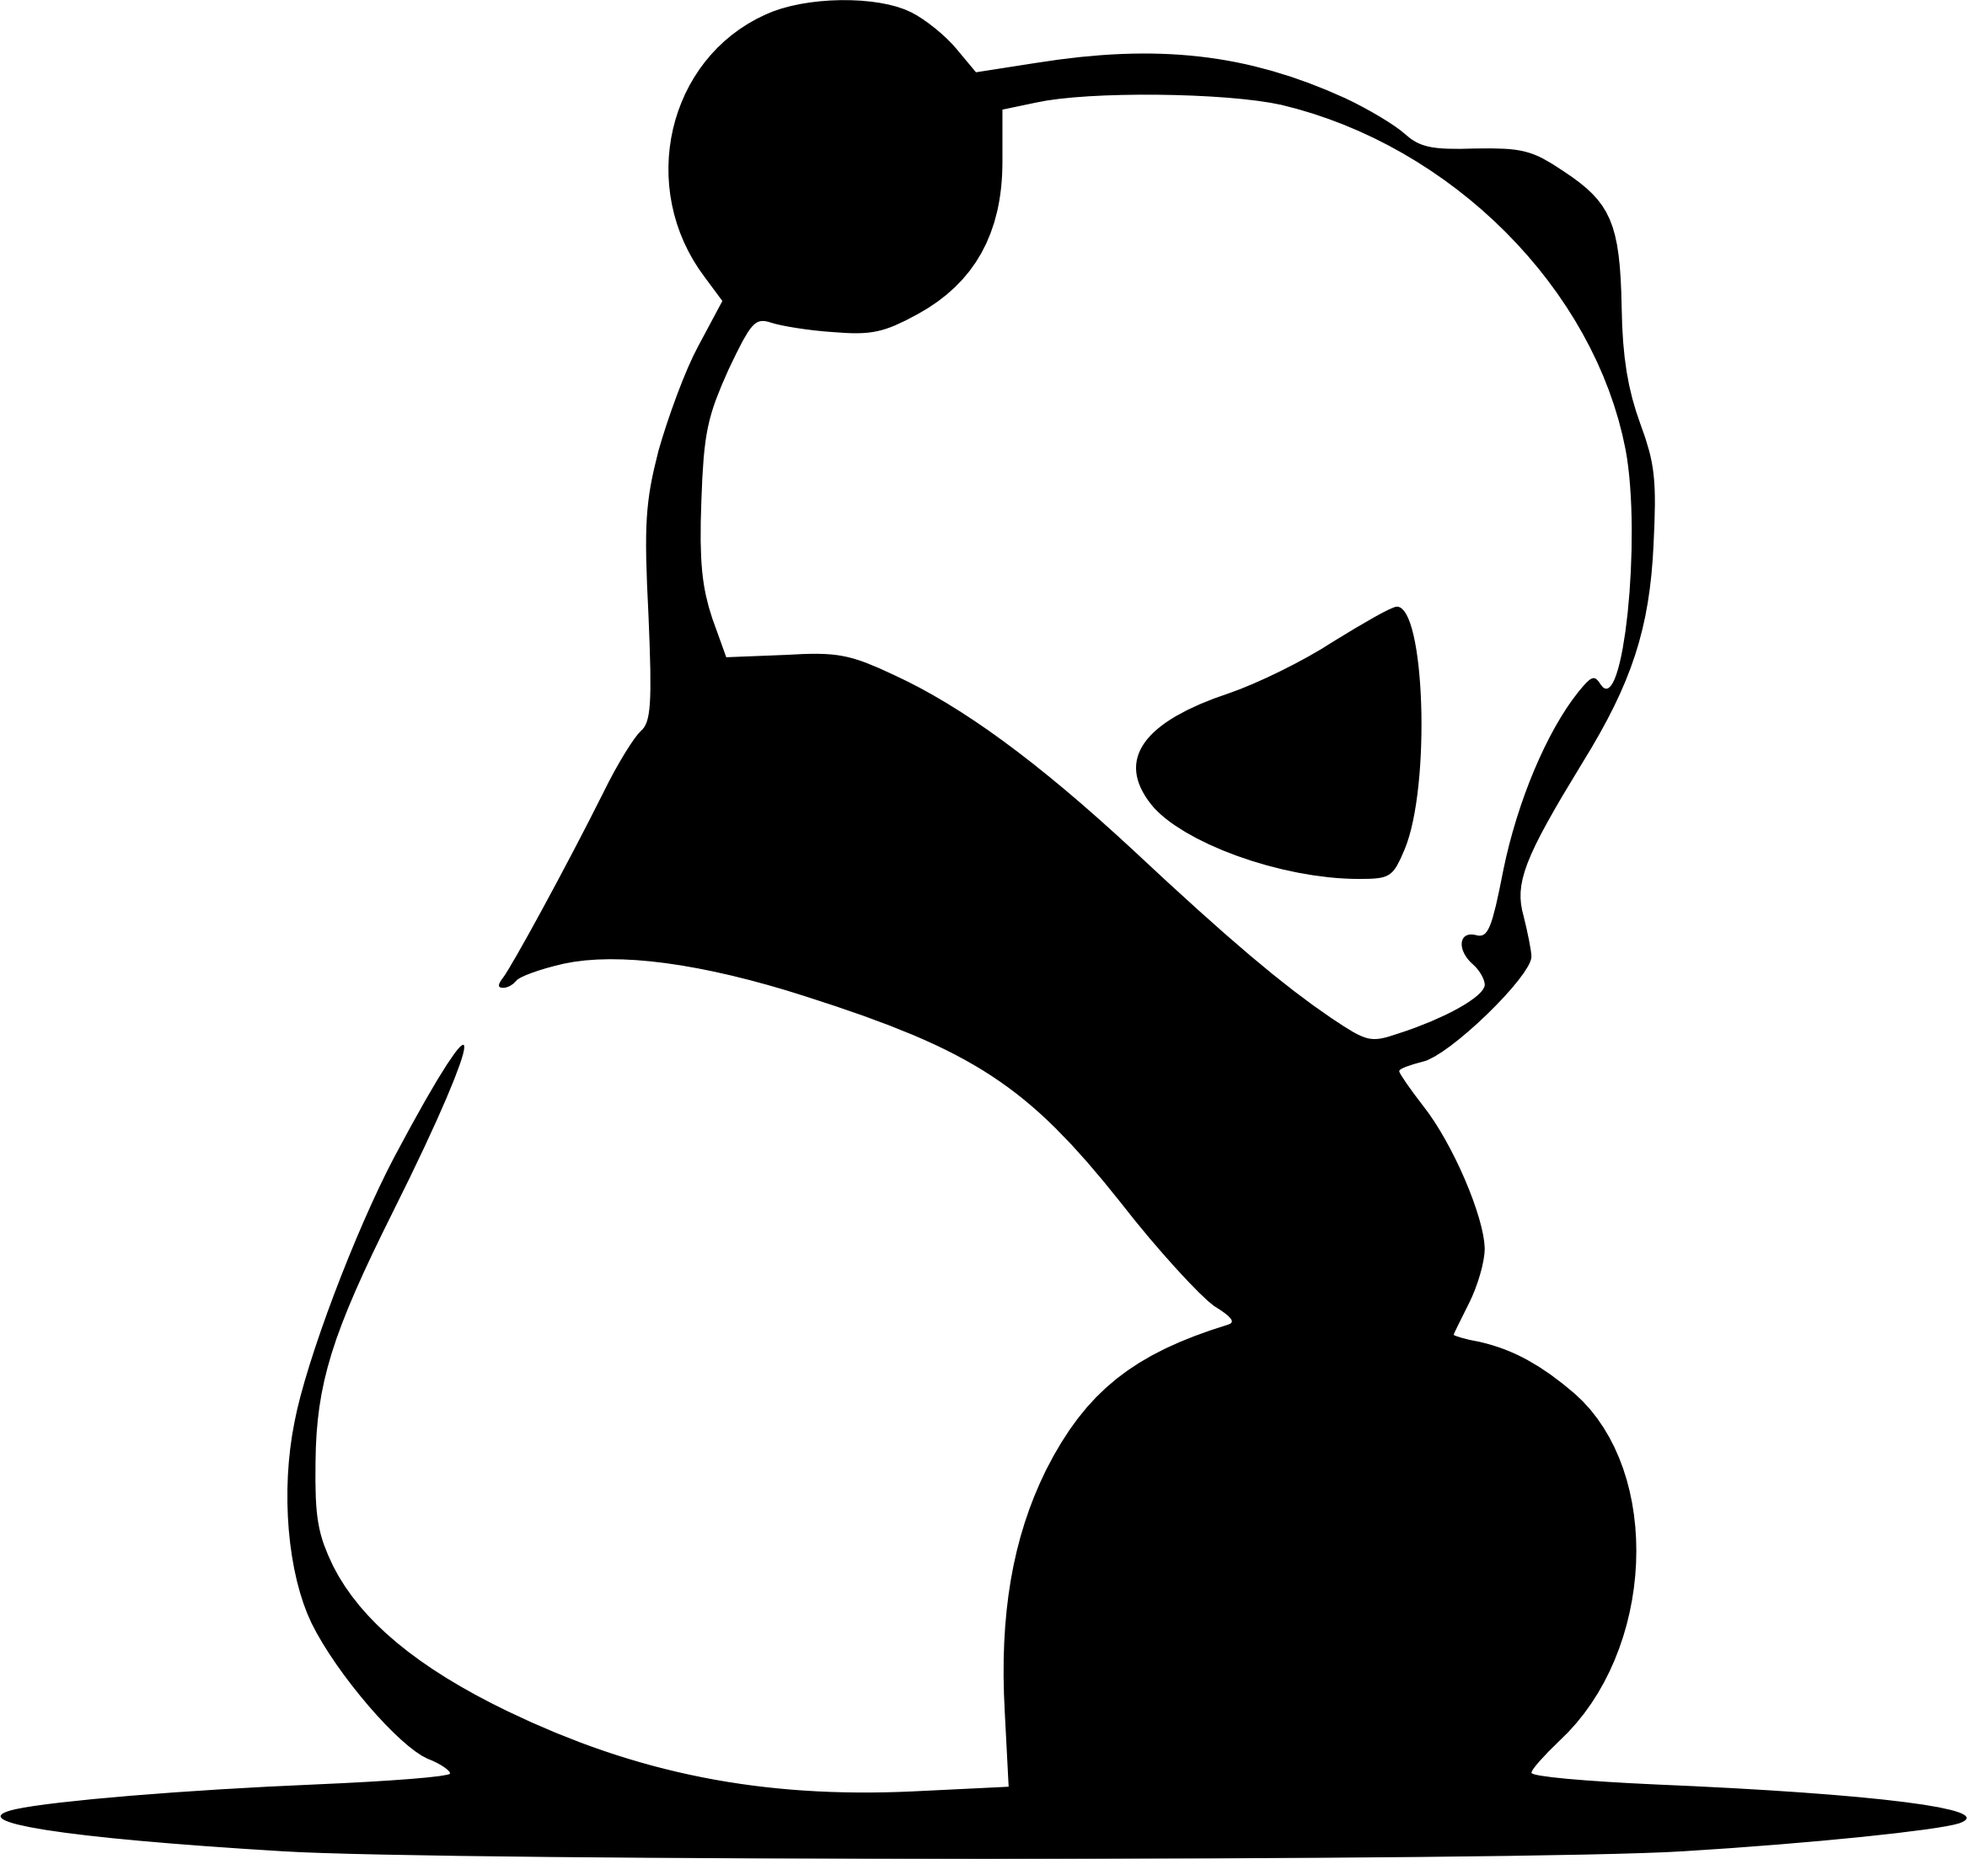
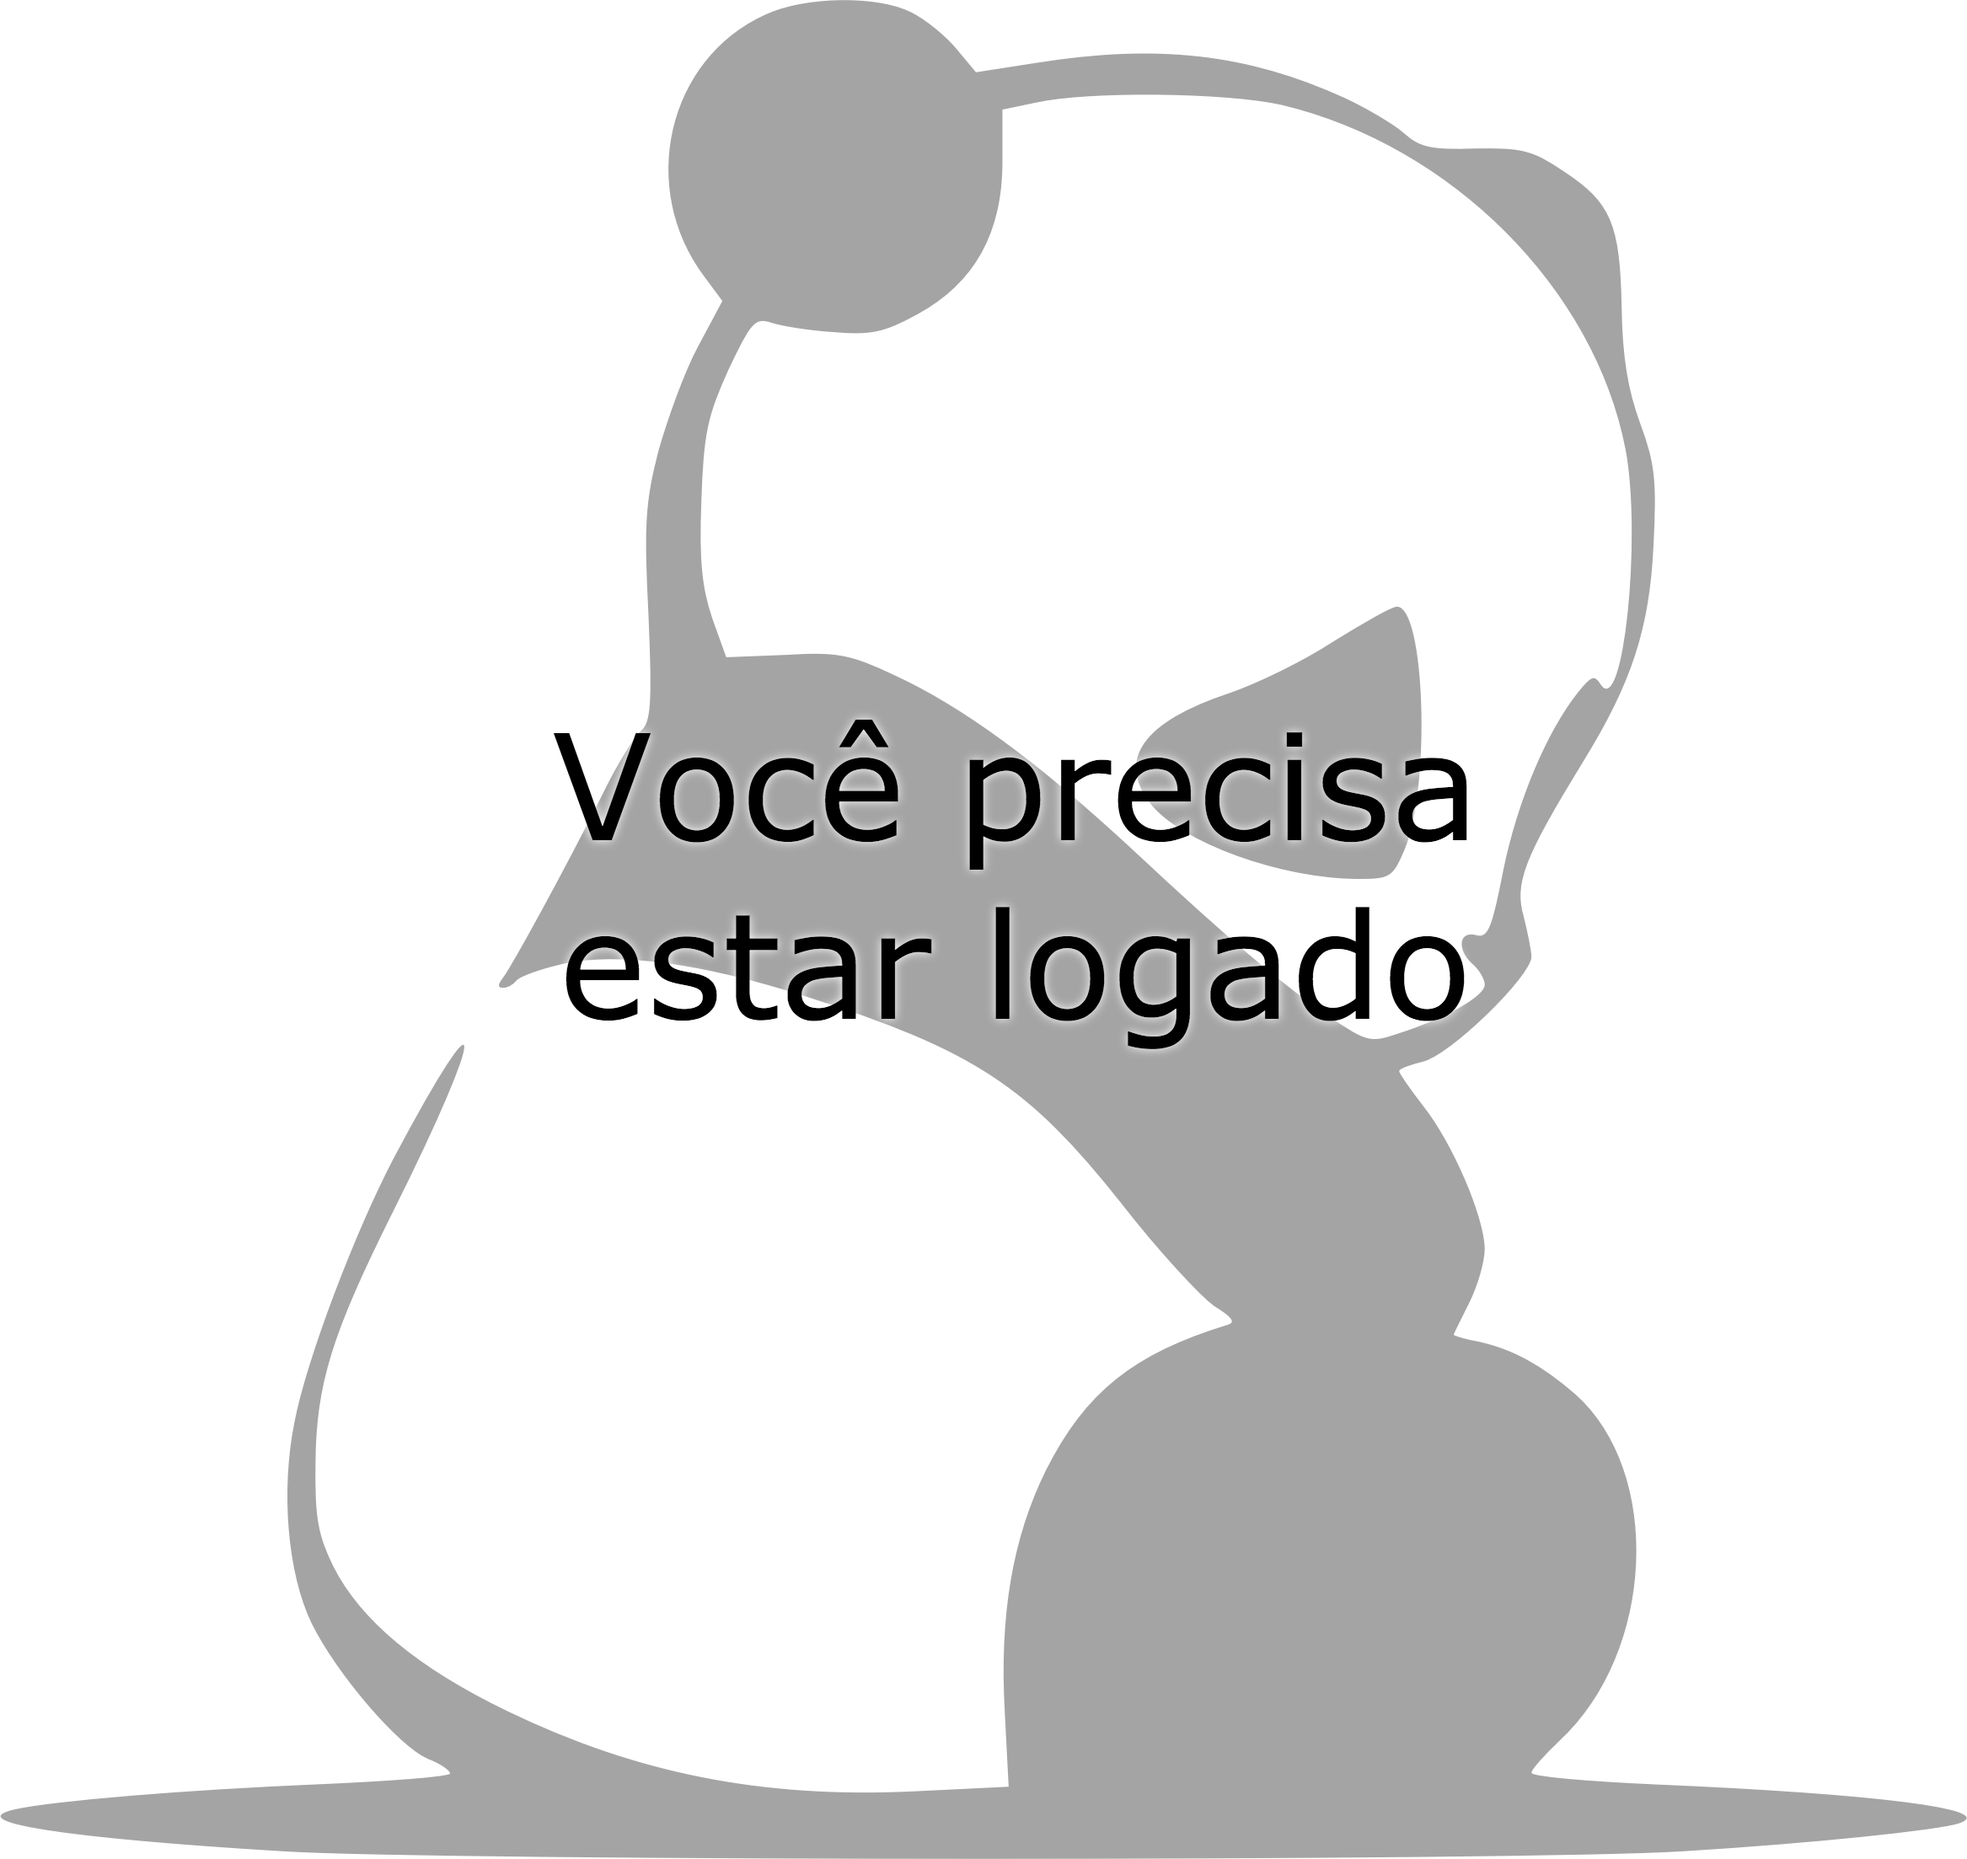
fix: fix not logged in image

Changed region(s): [[0.0, 0.0, 1.0, 1.0]]

diff --git a/src/app/components/Home/Home.tsx b/src/app/components/Home/Home.tsx
@@ -13,9 +13,6 @@ export class Home extends React.Component<IUserProps> {
     return (
       <div className='not-logged text-center'>
         <img src='../../../assets/sadpanda.png'/>
-        <div className='description'>
-          Você precisa estar logado
-        </div>
       </div>
     );
   }

diff --git a/src/app/components/Home/Home.scss b/src/app/components/Home/Home.scss
@@ -1,15 +1,9 @@
 .not-logged {
-  display: flex;
-  flex-direction: column;
-  align-items: center;
-
-  .description {
-    font-size: 30px;
-  }
+  text-align: center;
 
   img {
     width: 70vh;
     margin-top: 5vh;
-    max-width: 600px;
+    max-width: 100%;
   }
 }
